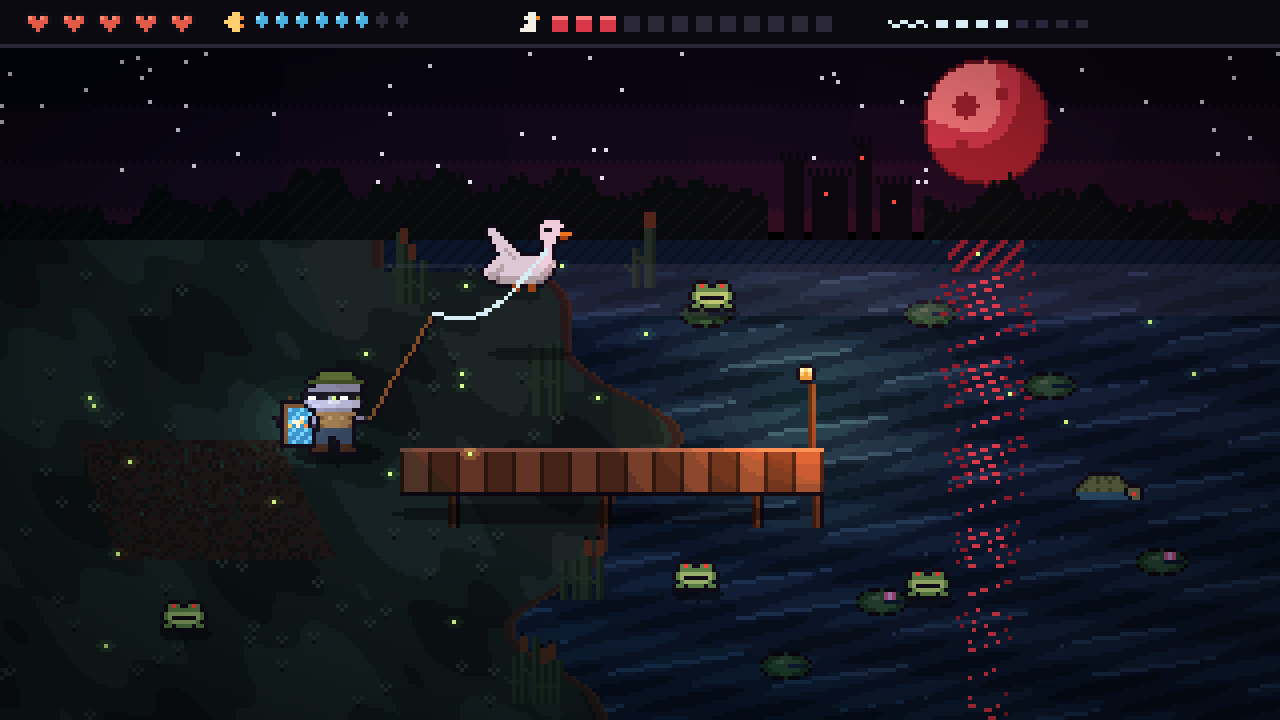
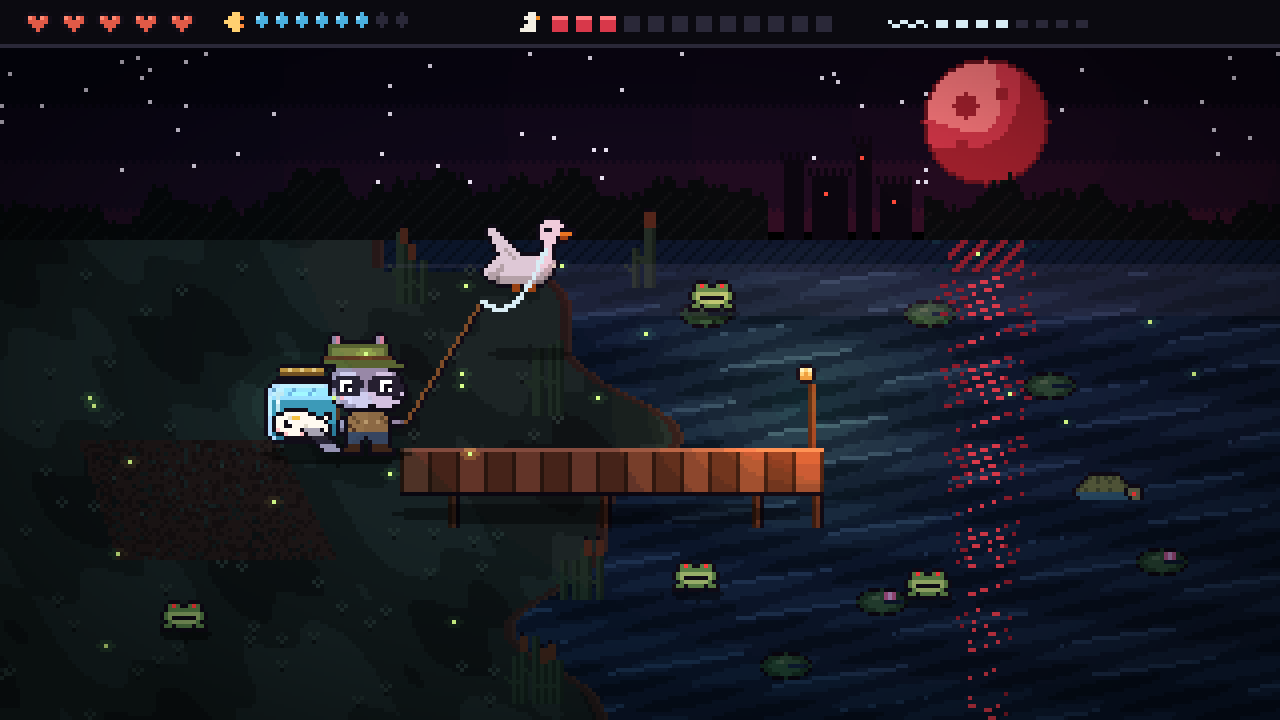
Art: cleaner chibi Rocco with fish-jar backpack and a readable Moon Koi
Shared sprite module (art/sprites.py), a Rocco character sheet, and the
pond style frame re-rendered with the new Rocco.

Claude-Session: https://claude.ai/code/session_01RHVZyy8vCMEMq4kRSxG4Ay

Changed region(s): [[0.1875, 0.3972, 0.4062, 0.6417], [0.4062, 0.3667, 0.4375, 0.3972]]

diff --git a/art/sprites.py b/art/sprites.py
@@ -1,0 +1,126 @@
+"""
+Shared character sprites for style frames and sheets. Native pixels, 1 px outline ('O').
+Each sprite is a list of rows; '.' is transparent. Keys map to palette names in PALETTE.
+
+Rocco is drawn chibi (head about 60% of his height) so his face has room: big eyes with a
+shine pixel, a bandit mask, white brows and muzzle, pink cheeks, a small smile, and ears
+poking through holes in his bucket hat. The Moon Koi lives in a glass fish jar on his back.
+"""
+
+PALETTE = {
+    'OUT': '120e18',
+    # Rocco fur
+    'FUR3': 'e9e5ee', 'FUR2': 'a8a3b2', 'FUR1': '77727f', 'MASK': '2a2633', 'EAR': 'e89aa8',
+    'EYEW': 'ffffff', 'PUPIL': '120e18', 'SHINE': 'ffffff', 'NOSE': '1a1620', 'CHEEK': 'f0a0aa',
+    # bucket hat, vest, trousers, boots
+    'HAT0': '3f4e22', 'HAT1': '627634', 'HAT2': '8aa04a', 'BAND': '6a4424',
+    'VEST0': '7a5a32', 'VEST1': 'a8804a', 'VEST2': 'd0aa6c', 'STRAP': '5a3a22',
+    'PANT0': '2e3a48', 'PANT1': '415468', 'BOOT': '4a2e1c',
+    # fish jar
+    'LID0': '7a5420', 'LID1': 'c89a3c', 'LID2': 'f0d07a',
+    'GLASS': 'bfe8f2', 'GLASSD': '6aa8bc', 'WATER0': '2a7a98', 'WATER1': '3c9ab8', 'WATER2': '62bcd6', 'BUBBLE': 'e8fbff',
+    # Moon Koi
+    'KOIW': 'fffaf0', 'KOIS': 'e2dccc', 'KOIG': 'f4c040', 'KOIF': 'ffc4c8', 'KOIE': '120e18',
+    # rod + line
+    'ROD': '8a5a2a', 'LINE': 'd8ecf4',
+}
+
+# Rocco, 3/4 view facing right. Paw holding the rod is at (21, 22).
+ROCCO = [
+    "...OO.........OO......",
+    "..OfeO.......OfeO.....",
+    "..OfeOOOOOOOOOfeO.....",
+    ".OHHHHHHHHHHHHHHHO....",
+    ".OHhhhhhhhhhhhhhHO....",
+    ".OHhhhhhhhhhhhhhHO....",
+    "OBBBBBBBBBBBBBBBBBO...",
+    "OHHHHHHHHHHHHHHHHHHOOO",
+    ".OOOHHHHHHHHHHHHHHHHHO",
+    "...OfffffffffffffOOOO.",
+    "..OffwwwwfffffwwwwfO..",
+    "..OfmmmmmmfffmmmmmmmO.",
+    "..OmmWWWmmmfmmmWWWmmO.",
+    "..OmmWPPmmmfmmmWPPmmmO",
+    "..OfmWPSmmffmmmWPSmmmO",
+    "..OfmmmmmmwwwwmmmmmmwO",
+    "...OfcwwwwwwwwwwwwnnnO",
+    "...OfffwwwwwwwwwwwwwO.",
+    "....OOfffwwwOOwwwwOO..",
+    "......OOOOOOOOOOOOO...",
+    ".......OvvvvvvvvO.....",
+    ".....OOvVvvvvvvVvOOO..",
+    "....OfOvvVvpvvpvVOffkO",
+    "....OfOsvvvvvvvvvOOOO.",
+    "....OkOvsvvvvvvvvO....",
+    ".....OOttttttttttO....",
+    "......OttttOtttttO....",
+    "......OtttO.OttttO....",
+    "......ObbbO.ObbbbO....",
+    ".....ObbbbO.ObbbbbO...",
+    ".....OOOOOO.OOOOOOO...",
+]
+ROCCO_KEYS = {
+    'O': 'OUT', 'f': 'FUR2', 'e': 'EAR', 'H': 'HAT1', 'h': 'HAT2', 'B': 'BAND', 'w': 'FUR3', 'm': 'MASK',
+    'W': 'EYEW', 'P': 'PUPIL', 'S': 'SHINE', 'c': 'CHEEK', 'n': 'NOSE',
+    'v': 'VEST1', 'V': 'VEST0', 'p': 'VEST2', 's': 'STRAP', 'k': 'FUR1', 't': 'PANT1', 'b': 'BOOT',
+}
+ROCCO_EMIT = 'WS'          # eye whites and shine stay bright at night
+ROCCO_PAW = (21, 22)
+
+# The Moon Koi: a small white fish with a gold crescent on its head, big tired eyes, pink fins.
+KOI = [
+    "...OOOOOO......",
+    ".OOwwwwwwOO..OO",
+    "OwwwlGGwwwwOOwO",
+    "OwwPSwwwwwwwwO.",
+    "OwwPPwwwswwwwwO",
+    "OKwwwwwwsswOOwO",
+    ".OOfwwwfwOO..OO",
+    "...OOOOOO......",
+]
+KOI_KEYS = {'O': 'OUT', 'w': 'KOIW', 's': 'KOIS', 'l': 'KOIS', 'G': 'KOIG', 'P': 'KOIE', 'S': 'SHINE', 'f': 'KOIF', 'K': 'KOIF'}
+
+JAR_W, JAR_H = 19, 20
+
+def draw_jar(put, x0, y0, water=0.72, emit=True):
+    """Glass fish jar backpack with brass lid, water filled to `water` (0-1), and the Moon Koi.
+    `put(x, y, palette_key, emit=bool)` draws one pixel."""
+    w, h = JAR_W, JAR_H
+    # lid
+    for x in range(x0 + 4, x0 + w - 4):
+        put(x, y0, 'OUT'); put(x, y0 + 1, 'LID2' if x % 3 == 0 else 'LID1'); put(x, y0 + 2, 'LID0')
+    put(x0 + 3, y0 + 1, 'OUT'); put(x0 + w - 4, y0 + 1, 'OUT')
+    for x in range(x0 + 3, x0 + w - 3): put(x, y0 + 3, 'OUT')
+    # glass body: rounded rectangle
+    top, bot = y0 + 4, y0 + h - 1
+    surface = top + 1 + int((bot - top - 2) * (1 - water))
+    for y in range(top, bot + 1):
+        inset = 2 if y in (top, bot) else 1 if y in (top + 1, bot - 1) else 0
+        for x in range(x0 + inset, x0 + w - inset):
+            edge = x in (x0 + inset, x0 + w - inset - 1) or y in (top, bot)
+            if edge:
+                put(x, y, 'OUT'); continue
+            if x in (x0 + inset + 1,) or y == top + 1:
+                put(x, y, 'GLASS'); continue
+            if y < surface:
+                put(x, y, 'GLASSD' if (x + y) % 5 == 0 else 'GLASS' if x < x0 + 5 else 'WATER2'); continue
+            if y == surface:
+                put(x, y, 'WATER2', emit=emit); continue
+            depth = (y - surface) / max(1, bot - surface)
+            put(x, y, 'WATER1' if depth < 0.55 else 'WATER0', emit=emit)
+    # glass highlight streak
+    for y in range(top + 3, bot - 3):
+        put(x0 + 3, y, 'GLASS', emit=emit)
+    put(x0 + 4, top + 3, 'GLASS', emit=emit)
+    # the koi, centered in the water, and two bubbles
+    kx, ky = x0 + 2, max(surface + 3, y0 + 10)
+    for j, row in enumerate(KOI):
+        for i, ch in enumerate(row):
+            if ch == '.': continue
+            put(kx + i, ky + j, KOI_KEYS[ch], emit=emit)
+    for (bx, by) in [(kx + 1, ky - 2), (kx + 3, ky - 5)]:
+        if by > surface:
+            put(bx, by, 'BUBBLE', emit=emit)
+    # shoulder straps
+    for y in range(top + 2, top + 12):
+        put(x0 + w - 1, y, 'STRAP')

diff --git a/art/styleframe/pond.py b/art/styleframe/pond.py
@@ -11,8 +11,13 @@ import math
 import random
 import sys
 
+import os
+
 import numpy as np
 from PIL import Image
+
+sys.path.insert(0, os.path.join(os.path.dirname(__file__), '..'))
+import sprites  # noqa: E402
 
 W, H, SCALE = 320, 180, 4
 rng = random.Random(11)
@@ -53,6 +58,9 @@ P = {k: hx(v) for k, v in {
     'FF': 'd8ff8a', 'FOG': '6a6080',
     'HEART': 'e05a47', 'HEART2': 'ff8a72', 'UI0': '0b0a10', 'UI1': '2a2838', 'WATER': '4ab0e0', 'WATER2': '9ae0ff',
 }.items()}
+
+for _k, _v in sprites.PALETTE.items():
+    P.setdefault(_k, hx(_v))
 
 base = np.zeros((H, W, 3), dtype=np.float32)
 emissive = np.zeros((H, W), dtype=bool)
@@ -243,35 +251,6 @@ GOOSE_FLY = [
 ]
 GK = {'O': 'OUT', 'W': 'GW', 'S': 'GS', 'D': 'GD', 'B': 'GB', 'K': 'GK', 'E': 'EYE'}
 
-ROCCO = [
-    "......OOOOOOOO......",
-    ".....OhhhhhhhhO.....",
-    "...OOHhhhhhhhhHOO...",
-    "..OHHHHHHHHHHHHHHO..",
-    "...OOgggggggggggOO..",
-    "..OgggggggggggggO...",
-    ".OmmmmmmmmmmmmmmO...",
-    ".OmwwmmmgmmwwmmhO...",
-    ".OghhhhhhhhhhhhhnO..",
-    "..OghhhhhhhhhhhhO...",
-    "...OOgggggggggOO....",
-    "....OvvvvvvvvvvO....",
-    "...OgOVvpvvpvVOggkO.",
-    "...OgOvvvvvvvvOOOO..",
-    "...OkOVvvvvvvVO.....",
-    "....OOttttttttO.....",
-    "....OtttttttttO.....",
-    "....OtttOOttttO.....",
-    "....OtttO.OtttO.....",
-    "....ObbbO.ObbbO.....",
-    "...ObbbbO.ObbbbO....",
-    "...OOOOOO.OOOOOO....",
-]
-RK = {'O': 'OUT', 'h': 'H1', 'H': 'H0', 'g': 'R2', 'm': 'RM', 'w': 'WHITE', 'n': 'RM', 'k': 'R0',
-      'v': 'V1', 'V': 'V0', 'p': 'V2', 't': 'T1', 'b': 'BT'}
-# fix the muzzle row (h means hat elsewhere): draw rows 8-9 with fur-light instead
-ROCCO_MUZZLE = {8: ".OgrrrrrrrrrrrrrnO..", 9: "..OgrrrrrrrrrrrrO..."}
-
 FROG = [
     "..OOO..OOO..",
     ".OgRgOOgRgO.",
@@ -284,40 +263,28 @@ FROG = [
 ]
 FK = {'O': 'OUT', 'g': 'F1', 'l': 'F2', 'R': 'FR'}
 
-RX, RY = 74, 92             # Rocco, at the foot of the dock
+RX, RY = 80, 83             # Rocco, at the foot of the dock
 GX, GY = 120, 54            # Biscuit mid-fling over the water
 frogs = [(168, 140), (172, 70), (226, 142), (40, 150)]
 
-shadow(RX + 10, RY + 21, 11, 3, 0.5)
+shadow(RX + 4, RY + 30, 18, 3, 0.5)
 shadow(GX + 12, GY + 34, 10, 2, 0.65)
 for (fx, fy) in frogs: shadow(fx + 6, fy + 8, 6, 2, 0.55)
 
-# striped tail and the koi backpack behind Rocco
-for i in range(7):
-    ty = RY + 18 - i; tx = RX + 2 - i // 2
-    for k in range(5): put(tx - k, ty, 'RM' if (i // 2) % 2 else 'R2', spr=True)
-    put(tx - 5, ty, 'OUT', spr=True)
-for y in range(RY + 8, RY + 20):
-    for x in range(RX - 4, RX + 5):
-        edge = x in (RX - 4, RX + 4) or y in (RY + 8, RY + 19)
-        if edge: put(x, y, 'OUT', spr=True)
-        elif x == RX - 3 or y == RY + 9: put(x, y, 'PK1', spr=True)
-        else:
-            # glass window with water and the glowing Moon Koi
-            put(x, y, 'GL0' if (x + y) % 3 else 'GL1', spr=True)
-for (dx, dy, c) in [(-1, 13, 'KOI'), (0, 13, 'KOI'), (1, 13, 'KOI2'), (2, 14, 'KOI3'), (-2, 14, 'KOI2'), (0, 14, 'KOI'), (1, 12, 'KOI')]:
-    put(RX + dx, RY + dy, c, emit=True, spr=True)
-put(RX - 2, RY + 7, 'PK0', spr=True); put(RX + 2, RY + 7, 'PK0', spr=True)
-
-rows = [ROCCO_MUZZLE.get(i, r) for i, r in enumerate(ROCCO)]
-RK2 = dict(RK, r='R3')
-blit(rows, RX, RY, RK2, emit_keys='w')
+# the fish-jar backpack with the Moon Koi, behind Rocco's left shoulder
+sprites.draw_jar(lambda x, y, c, emit=False: put(x, y, c, emit=emit, spr=True), RX - 14, RY + 8)
+# striped tail curling out below the jar
+for i in range(6):
+    ty = RY + 29 - i; tx = RX + 4 - i
+    for k in range(4): put(tx - k, ty, 'MASK' if (i // 2) % 2 else 'FUR2', spr=True)
+    put(tx - 4, ty, 'OUT', spr=True); put(tx + 1, ty, 'OUT', spr=True)
+blit(sprites.ROCCO, RX, RY, {k: v for k, v in sprites.ROCCO_KEYS.items()}, emit_keys=sprites.ROCCO_EMIT)
 blit(GOOSE_FLY, GX, GY, GK, emit_keys='E')
 for (fx, fy) in frogs:
     blit(FROG, fx, fy, FK, emit_keys='R', flip=fx > 150)
 
 # fishing rod from Rocco's paw, then the fishing line to Biscuit's neck
-paw = (RX + 18, RY + 12); tip = (RX + 34, RY - 14)
+paw = (RX + sprites.ROCCO_PAW[0], RY + sprites.ROCCO_PAW[1]); tip = (RX + 40, RY - 8)
 for i in range(31):
     t = i / 30
     x = round(paw[0] + (tip[0] - paw[0]) * t); y = round(paw[1] + (tip[1] - paw[1]) * t)
@@ -346,7 +313,7 @@ def add_light(cx, cy, radius, color, power, bands=7):
 
 add_light(MX, MY, 280, (0.95, 0.18, 0.24), 0.7)               # blood-moon key light
 add_light(201, 100, 66, (1.0, 0.66, 0.32), 1.25)                 # dock lantern
-add_light(RX, RY + 13, 22, (0.7, 0.9, 1.0), 0.8)               # the koi's glow
+add_light(RX - 5, RY + 18, 26, (0.7, 0.9, 1.0), 0.8)          # the koi's glow
 for (fx, fy) in fireflies: add_light(fx, fy, 7, (0.8, 1.0, 0.5), 0.6, bands=3)
 
 lit = base * np.clip(light, 0, 1.6)

diff --git a/art/characters/rocco_sheet.py b/art/characters/rocco_sheet.py
@@ -1,0 +1,58 @@
+"""Character sheet: Rocco with his fish-jar backpack, and a close-up of the Moon Koi.
+Run: python3 art/characters/rocco_sheet.py out.png"""
+import os
+import sys
+
+from PIL import Image, ImageDraw
+
+sys.path.insert(0, os.path.join(os.path.dirname(__file__), '..'))
+from sprites import JAR_H, JAR_W, PALETTE, ROCCO, ROCCO_KEYS, draw_jar, KOI, KOI_KEYS  # noqa: E402
+
+def hx(s):
+    return tuple(int(s[i:i + 2], 16) for i in (0, 2, 4))
+
+BG = hx('1b1a26')
+
+def canvas(w, h):
+    return Image.new('RGB', (w, h), BG)
+
+def sprite_img(rows, keys):
+    w = max(len(r) for r in rows); h = len(rows)
+    im = Image.new('RGBA', (w, h), (0, 0, 0, 0))
+    for j, r in enumerate(rows):
+        for i, ch in enumerate(r):
+            if ch != '.': im.putpixel((i, j), hx(PALETTE[keys[ch]]) + (255,))
+    return im
+
+def jar_img(water=0.8):
+    im = Image.new('RGBA', (JAR_W, JAR_H), (0, 0, 0, 0))
+    def put(x, y, c, emit=False):
+        if 0 <= x < JAR_W and 0 <= y < JAR_H: im.putpixel((x, y), hx(PALETTE[c]) + (255,))
+    draw_jar(put, 0, 0, water)
+    return im
+
+def rocco_with_jar():
+    r = sprite_img(ROCCO, ROCCO_KEYS); j = jar_img()
+    im = Image.new('RGBA', (r.width + 14, max(r.height, JAR_H + 8)), (0, 0, 0, 0))
+    im.alpha_composite(j, (0, 8))          # jar sits behind his left shoulder
+    im.alpha_composite(r, (14, 0))
+    return im
+
+S = 10
+sheet = canvas(1280, 560)
+d = ImageDraw.Draw(sheet)
+parts = [('Rocco, 3/4 view', rocco_with_jar(), 10), ('Fish-jar backpack', jar_img(), 10), ('The Moon Koi', sprite_img(KOI, KOI_KEYS), 14)]
+x = 40
+for label, im, sc in parts:
+    big = im.resize((im.width * sc, im.height * sc), Image.NEAREST)
+    sheet.paste(big, (x, 70), big)
+    d.text((x, 30), f'{label}  ({im.width}x{im.height} px)', fill=(230, 226, 238))
+    x += big.width + 60
+# native-size row so the in-game read is visible too
+native = rocco_with_jar()
+for k, sc in enumerate((1, 2, 4)):
+    n = native.resize((native.width * sc, native.height * sc), Image.NEAREST)
+    sheet.paste(n, (40 + k * 140, 430), n)
+d.text((40, 405), 'In game: 1x, 2x, 4x', fill=(160, 156, 176))
+sheet.save(sys.argv[1] if len(sys.argv) > 1 else 'rocco_sheet.png')
+print('ok')
